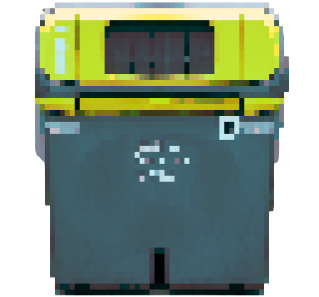
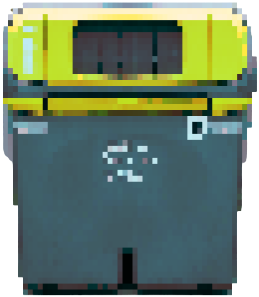
actualizacion isaac

diff --git a/JuegosM12/Isaac/meuJogoDoLixo/meuJogoDoLixo.js b/JuegosM12/Isaac/meuJogoDoLixo/meuJogoDoLixo.js
@@ -179,21 +179,24 @@ function startOrganicMode() {
 function startGlassMode() {
   isGlassMode = true;
   // Cambiar la imagen de la papelera para el modo glass
-  trashCan.style.backgroundImage = "url('images/trashcans/glassTrashcan.png')";
+  trashCan.style.backgroundImage = "url('images/menuGlassTrashcan.png')";
   startGame(); // Iniciar el juego
 }
 
 function startPaperCardboardMode() {
   isPaperCardboardMode = true;
   // Cambiar la imagen de la papelera para el modo paperCardboard
-  trashCan.style.backgroundImage = "url('images/trashcans/paperCardboardTrashcan.png')";
+  trashCan.style.backgroundImage = "url('images/menuPaperCardboardTrashcan.png')";
+  trashCan.style.width = "200px";
+  trashCan.style.height = "204px";
   startGame(); // Iniciar el juego
 }
 
 function startPlasticsMode() {
   isPlasticsMode = true;
   // Cambiar la imagen de la papelera para el modo plstics
-  trashCan.style.backgroundImage = "url('images/trashcans/plasticsTrashcan.png')";
+  trashCan.style.backgroundImage = "url('images/menuPlasticsTrashcan.png')";
+  trashCan.style.width = "200px";
   startGame(); // Iniciar el juego
 }
 
@@ -231,7 +234,7 @@ function startGame() {
       // Configuración del juego
       trashCan.style.display = "block";
       player.score = 0;
-      player.timeToFinish = 100;
+      player.timeToFinish = 30;
       player.totalElement = 100;
       player.currentlyPlaying = true;
       
@@ -404,7 +407,7 @@ function makeEnemies() {
     });
 
     // Verificar si el puntaje es 10 o más
-    if (player.score >= 10) {
+    if (player.score >= 15) {
       youWinMessage.innerHTML = "HAS GANADO!";
       nextGameButton.style.display = "block";
     } else {

diff --git a/JuegosM12/Isaac/meuJogoDoLixo/css/style.css b/JuegosM12/Isaac/meuJogoDoLixo/css/style.css
@@ -133,7 +133,15 @@ body, html {
 }
 
 .plasticsTrashcanImage {
+    height: 57%;
+    width: 83%;
+    margin-top: 40%;
     background-image: url('../images/menuPlasticsTrashcan.png'); 
+}
+
+.plasticsCategory p {
+    padding-top: 12%;
+    margin-top: 0px;
 }
 
 .tutorialContainer {
